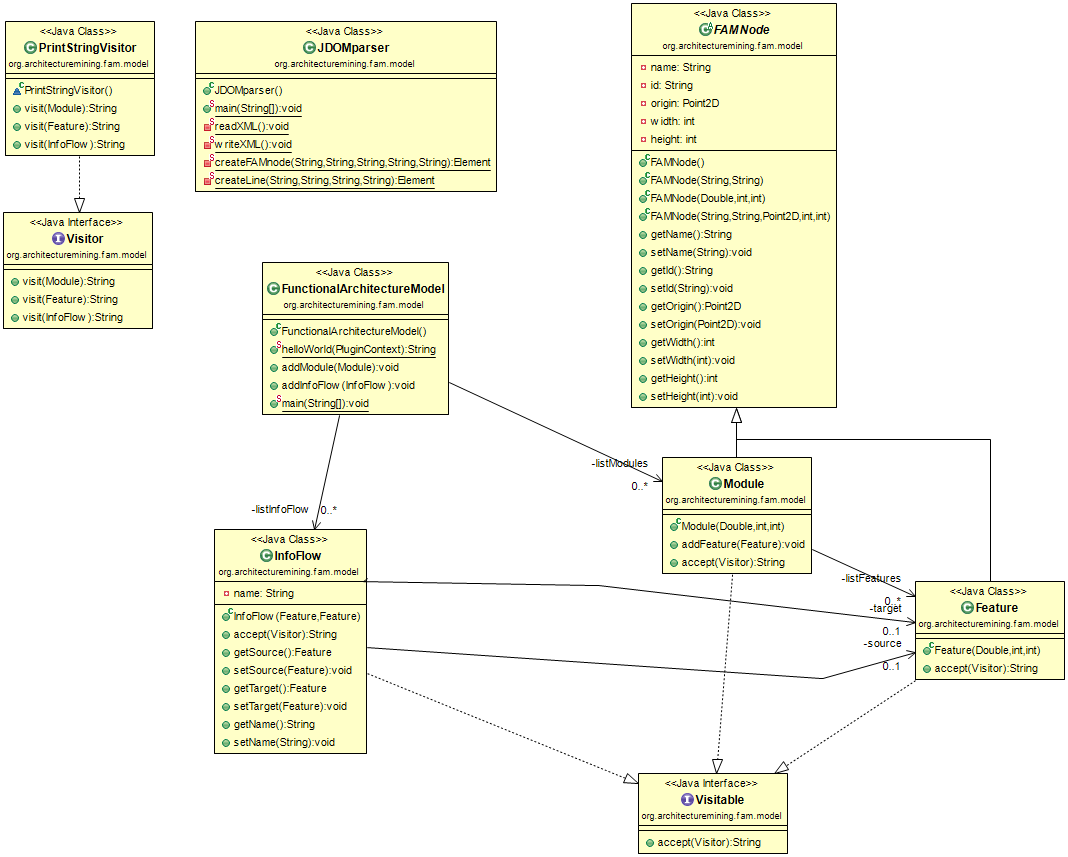
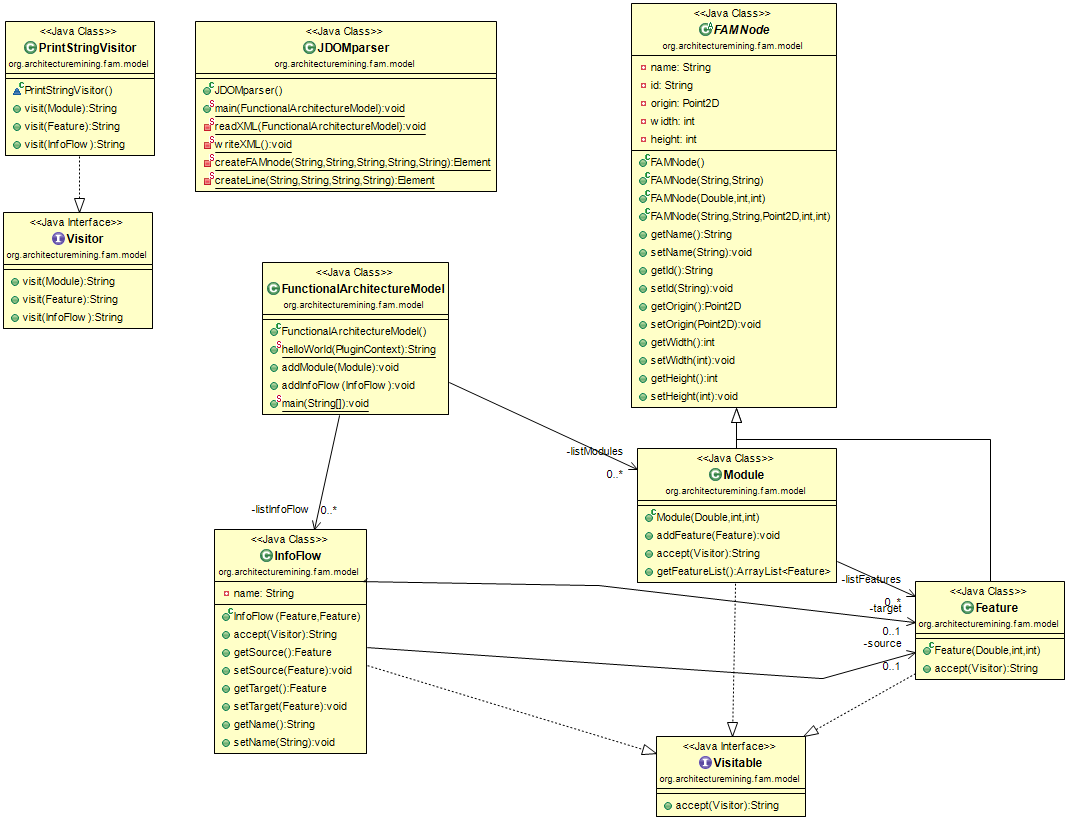
Storing xml in Model

diff --git a/fam/model/JDOMparser.java b/fam/model/JDOMparser.java
@@ -1,5 +1,6 @@
 package org.architecturemining.fam.model;
 
+import java.awt.geom.Point2D;
 import java.io.File;
 import java.io.FileOutputStream;
 import java.io.IOException;
@@ -14,15 +15,15 @@ import org.jdom2.output.XMLOutputter;
 
 public class JDOMparser {
 	
-public static void main(String[] args) {
+public static void main(FunctionalArchitectureModel fam) {
 	
 	writeXML();
 	
-	readXML();
+	readXML(fam);
 	
 	}
 
-private static void readXML() {
+private static void readXML(FunctionalArchitectureModel fam) {
 	
 	SAXBuilder builder = new SAXBuilder();
 		
@@ -41,19 +42,30 @@ private static void readXML() {
 		
 		for (Element moduleEle : root.getChildren("FAMnode")) {
 			
-			//Module m1 = new Module(new Point2D.Double(0,0), Integer.parseInt(moduleEle.getChildText("heigth")), Integer.parseInt(moduleEle.getChildText("width")));
-					
+			Module m1 = new Module(new Point2D.Double(Integer.parseInt(moduleEle.getChildText("origin").split(",")[0]),
+													  Integer.parseInt(moduleEle.getChildText("origin").split(",")[1])),
+													  Integer.parseInt(moduleEle.getChildText("width")), 
+													  Integer.parseInt(moduleEle.getChildText("height")));
+			
+			fam.addModule(m1);
+			
 			System.out.println(moduleEle.getAttributeValue("type") + " " + moduleEle.getChildText("name"));
 			System.out.println("Origin: " + moduleEle.getChildText("origin"));
-			System.out.println("Height: " + moduleEle.getChildText("heigth"));
+			System.out.println("Height: " + moduleEle.getChildText("height"));
 			System.out.println("Width: " + moduleEle.getChildText("width"));
 			System.out.println("Has features:");
 			
 			for (Element featureEle : moduleEle.getChildren("FAMnode")) {
 				
+				Feature f1 = new Feature(new Point2D.Double(Integer.parseInt(moduleEle.getChildText("origin").split(",")[0]),
+						  									Integer.parseInt(moduleEle.getChildText("origin").split(",")[1])), 
+															Integer.parseInt(featureEle.getChildText("width")), 
+															Integer.parseInt(featureEle.getChildText("height")));
+				m1.addFeature(f1);
+				
 				System.out.println("\t" + featureEle.getAttributeValue("type") + " " + featureEle.getChildText("name"));
 				System.out.println("\t" + "Origin: " + featureEle.getChildText("origin"));
-				System.out.println("\t" + "Height: " + featureEle.getChildText("heigth"));
+				System.out.println("\t" + "Height: " + featureEle.getChildText("height"));
 				System.out.println("\t" + "Width: " + featureEle.getChildText("width"));				
 			}
 			

diff --git a/fam/model/FunctionalArchitectureModel.java b/fam/model/FunctionalArchitectureModel.java
@@ -1,6 +1,5 @@
 package org.architecturemining.fam.model;
 
-import java.awt.geom.Point2D;
 import java.util.ArrayList;
 
 import org.processmining.contexts.uitopia.annotations.UITopiaVariant;
@@ -40,39 +39,20 @@ public class FunctionalArchitectureModel {
 	}
 	
 	public static void main (String[] args) {
-		//creation of the Functional architecture model
+
 		FunctionalArchitectureModel fam = new FunctionalArchitectureModel();
 		
-		//creation of an module + adding it to the list of the FAM
-		Module m1 = new Module(new Point2D.Double(0,0), 10, 10);
-		fam.addModule(m1);
+		JDOMparser.main(fam);
 		
-		//creation of 2 features + adding them to the list of the module m1
-		Feature f1 = new Feature(new Point2D.Double(1,1), 3, 3);
-		Feature f2 = new Feature(new Point2D.Double(5,1), 3, 3);
-		m1.addFeature(f1);
-		m1.addFeature(f2);
-		
-		//creation of an InfoFlow + adding it to the lijstInfoFlow
-		InfoFlow i1 = new InfoFlow(f1,f2);
-		fam.addInfoFlow(i1);
-		
-		//test
-		System.out.println("testnick");
-		
-		//visitor testing
-		PrintStringVisitor stringPrint = new PrintStringVisitor();
-		m1.setName("Module 1");
-		f1.setName("Feature 1");
-		f2.setName("Feature 2");
-		i1.setName("Information Flow 1");
-		m1.accept(stringPrint);
-		f1.accept(stringPrint);
-		i1.accept(stringPrint);
-		//MyDomParser parser = new MyDomParser();
-		//parser.main(args);
-		System.out.println("github");
-		
-	}
-	
+		for(int i = 0 ; i < fam.listModules.size(); i++) {
+			System.out.println("Module Origin:");
+			System.out.println(fam.listModules.get(i).getOrigin());
+			
+			for(int j = 0; j < fam.listModules.get(i).getFeatureList().size(); j++) {
+				System.out.println("Feature width");			
+				System.out.println(fam.listModules.get(i).getFeatureList().get(j).getWidth());
+				
+			}			
+		}		
+	}	
 }

diff --git a/fam/model/Module.java b/fam/model/Module.java
@@ -20,5 +20,9 @@ public class Module extends FAMNode implements Visitable {
 	public String accept(Visitor visitor) {
 		return visitor.visit(this);
 	}
+	
+	public ArrayList<Feature> getFeatureList() {
+		return listFeatures;
+	}
 
 }
